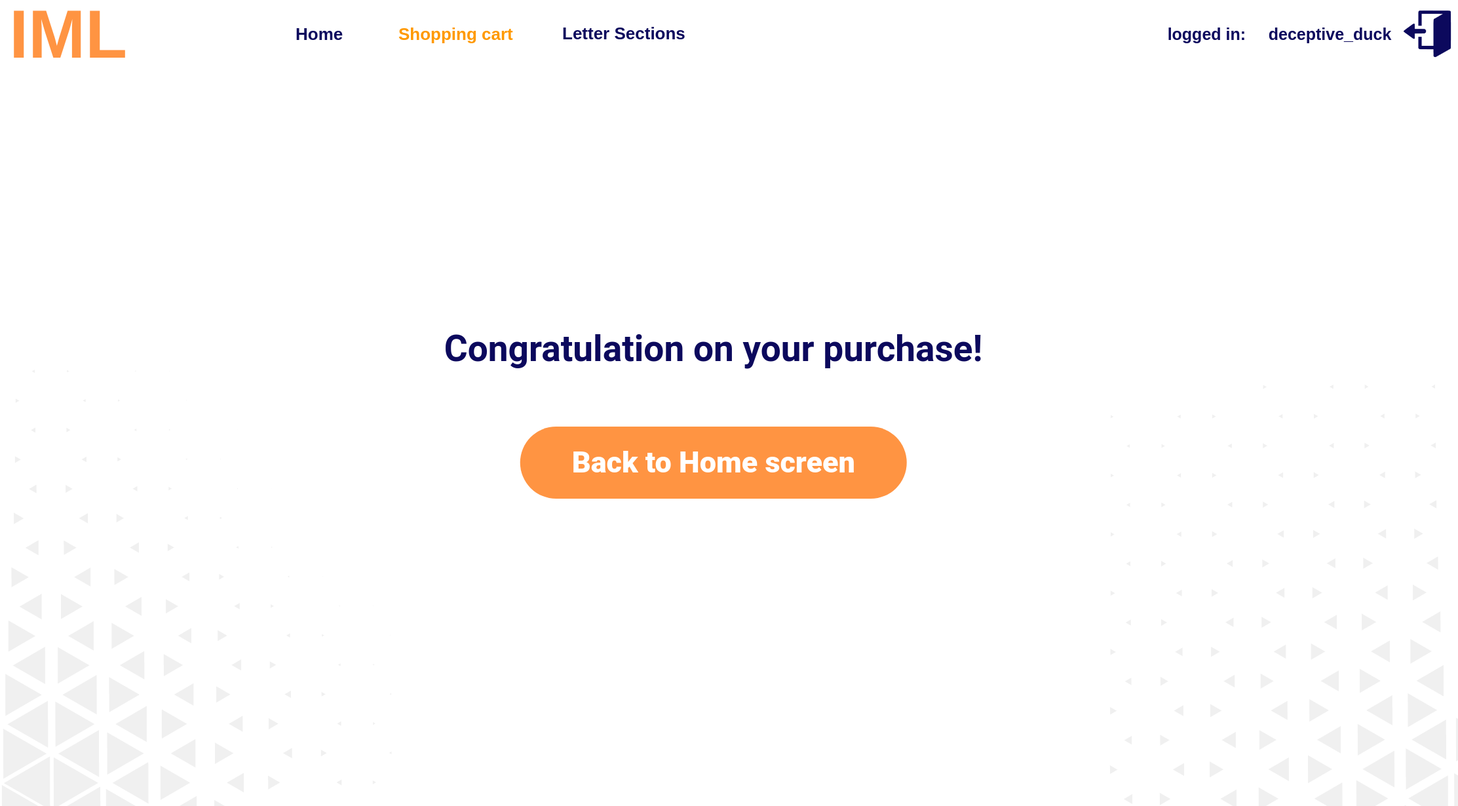
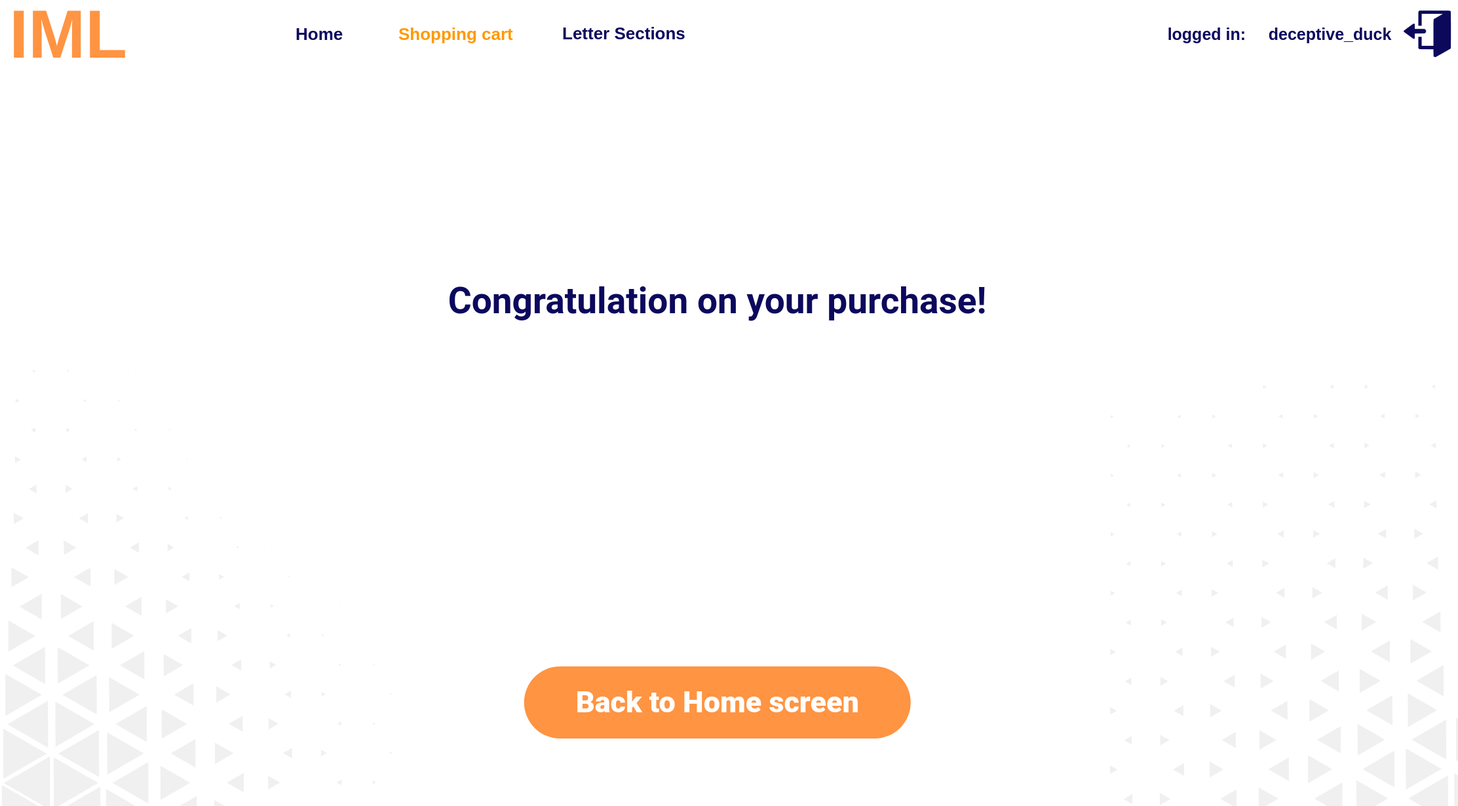
Final touches

Changed region(s): [[0.3101, 0.3398, 0.6822, 0.4634], [0.3411, 0.8033, 0.6512, 0.9268], [0.3411, 0.5252, 0.6202, 0.6179]]

diff --git a/index.html b/index.html
@@ -1,2 +1,2 @@
 <html xmlns="http://www.w3.org/1999/xhtml" xmlns:p="http://www.evolus.vn/Namespace/Pencil" xmlns:html="http://www.w3.org/1999/xhtml"><head><meta http-equiv="Content-Type" content="text/html; charset=UTF-8" />
-<title>mockup-project</title><link rel="stylesheet" href="Resources/style.css" /><script type="application/javascript" src="Resources/script.js"></script></head><body><h1 id="documentTitle">mockup-project</h1><p id="documentMetadata">Exported at: Mon Jan 22 2024 16:54:21 GMT+0200 (Eastern European Standard Time)</p><div class="Page" id="starting_page_page"><h2>Starting page</h2><div class="ImageContainer"><img src="pages/starting_page.png" width="2222" height="1230" usemap="#map_starting_page" /></div><map name="map_starting_page"><area shape="rect" coords="946.8125,771.5625,1275.5625,901.5625" href="#initialwords_page" title="Go to page 'initial_words'" /></map></div><div class="Page" id="initialwords_page"><h2>initial_words</h2><div class="ImageContainer"><img src="pages/initialwords.png" width="2222" height="1230" usemap="#map_initialwords" /></div><map name="map_initialwords"><area shape="rect" coords="930.9375,823.6875,1422.9375,869.6875" href="#initialwordscontinue_page" title="Go to page 'initial_words_continue'" /><area shape="rect" coords="838.75,812.1875,908.8125,882.25" href="#initialwordscontinue_page" title="Go to page 'initial_words_continue'" /></map></div><div class="Page" id="initialwordscontinue_page"><h2>initial_words_continue</h2><div class="ImageContainer"><img src="pages/initialwordscontinue.png" width="2222" height="1230" usemap="#map_initialwordscontinue" /></div><map name="map_initialwordscontinue"><area shape="rect" coords="846.48876953125,822.22314453125,899.608764648438,872.783142089844" href="#initialwords_page" title="Go to page 'initial_words'" /><area shape="rect" coords="930.9375,823.6875,1422.9375,869.6875" href="#initialwords_page" title="Go to page 'initial_words'" /><area shape="rect" coords="984.25,978,1236.75,1079.25" href="#createanewuser_page" title="Go to page 'create_a_new_user'" /></map></div><div class="Page" id="createanewuser_page"><h2>create_a_new_user</h2><div class="ImageContainer"><img src="pages/createanewuser.png" width="2222" height="1230" usemap="#map_createanewuser" /></div><map name="map_createanewuser"><area shape="rect" coords="770.625,822.5,1180.625,861.5" href="#createanewuserautofill_page" title="Go to page 'create_a_new_user_auto_fill'" /><area shape="rect" coords="771.625,722.5,1181.625,761.5" href="#createanewuserautofill_page" title="Go to page 'create_a_new_user_auto_fill'" /><area shape="rect" coords="771.625,630.5,1181.625,669.5" href="#createanewuserautofill_page" title="Go to page 'create_a_new_user_auto_fill'" /><area shape="rect" coords="771.625,540.5,1181.625,579.5" href="#createanewuserautofill_page" title="Go to page 'create_a_new_user_auto_fill'" /><area shape="rect" coords="771.625,448.5,1181.625,487.5" href="#createanewuserautofill_page" title="Go to page 'create_a_new_user_auto_fill'" /><area shape="rect" coords="771.625,348.5,1181.625,387.5" href="#createanewuserautofill_page" title="Go to page 'create_a_new_user_auto_fill'" /><area shape="rect" coords="771.625,256.5,1181.625,295.5" href="#createanewuserautofill_page" title="Go to page 'create_a_new_user_auto_fill'" /></map></div><div class="Page" id="createanewuserautofill_page"><h2>create_a_new_user_auto_fill</h2><div class="ImageContainer"><img src="pages/createanewuserautofill.png" width="2222" height="1230" usemap="#map_createanewuserautofill" /></div><map name="map_createanewuserautofill"><area shape="rect" coords="1201.5,247.5,1413.5,327.5" href="#createanewuserfilled_page" title="Go to page 'create_a_new_user_FILLED'" /></map></div><div class="Page" id="createanewuserfilled_page"><h2>create_a_new_user_FILLED</h2><div class="ImageContainer"><img src="pages/createanewuserfilled.png" width="2222" height="1230" usemap="#map_createanewuserfilled" /></div><map name="map_createanewuserfilled"><area shape="rect" coords="829.48876953125,929.22314453125,866.48876953125,961.22314453125" href="#initialwords_page" title="Go to page 'initial_words'" /><area shape="rect" coords="897.9375,907.6875,1389.9375,981.6875" href="#createanewuserfilleduncheck_page" title="Go to page 'create_a_new_user_FILLED_uncheck'" /><area shape="rect" coords="817.75,917.1875,877.75,972.1875" href="#createanewuserfilleduncheck_page" title="Go to page 'create_a_new_user_FILLED_uncheck'" /><area shape="rect" coords="986.25,1021,1238.75,1122.25" href="#tutorial1_page" title="Go to page 'Tutorial1'" /></map></div><div class="Page" id="createanewuserfilleduncheck_page"><h2>create_a_new_user_FILLED_uncheck</h2><div class="ImageContainer"><img src="pages/createanewuserfilleduncheck.png" width="2222" height="1230" usemap="#map_createanewuserfilleduncheck" /></div><map name="map_createanewuserfilleduncheck"><area shape="rect" coords="897.9375,907.6875,1389.9375,981.6875" href="#createanewuserfilled_page" title="Go to page 'create_a_new_user_FILLED'" /><area shape="rect" coords="817.75,917.1875,877.75,972.1875" href="#createanewuserfilled_page" title="Go to page 'create_a_new_user_FILLED'" /><area shape="rect" coords="986.25,1021,1238.75,1122.25" href="#tutorial1_page" title="Go to page 'Tutorial1'" /></map></div><div class="Page" id="tutorial1_page"><h2>Tutorial1</h2><div class="ImageContainer"><img src="pages/tutorial1.png" width="2225" height="1230" usemap="#map_tutorial1" /></div><map name="map_tutorial1"><area shape="rect" coords="864.75,629,1380.75,730" href="#tutorial2_page" title="Go to page 'Tutorial2'" /></map></div><div class="Page" id="tutorial2_page"><h2>Tutorial2</h2><div class="ImageContainer"><img src="pages/tutorial2.png" width="2225" height="1230" usemap="#map_tutorial2" /></div><map name="map_tutorial2"><area shape="rect" coords="1422.75,397,1938.75,498" href="#tutorial3_page" title="Go to page 'Tutorial3'" /></map></div><div class="Page" id="tutorial3_page"><h2>Tutorial3</h2><div class="ImageContainer"><img src="pages/tutorial3.png" width="2225" height="1230" usemap="#map_tutorial3" /></div><map name="map_tutorial3"><area shape="rect" coords="610.75,749,1126.75,850" href="#tutorial4_page" title="Go to page 'Tutorial4'" /></map></div><div class="Page" id="tutorial4_page"><h2>Tutorial4</h2><div class="ImageContainer"><img src="pages/tutorial4.png" width="2225" height="1230" usemap="#map_tutorial4" /></div><map name="map_tutorial4"><area shape="rect" coords="54.75,1034,570.75,1135" href="#tutorial5_page" title="Go to page 'Tutorial5'" /></map></div><div class="Page" id="tutorial5_page"><h2>Tutorial5</h2><div class="ImageContainer"><img src="pages/tutorial5.png" width="2225" height="1230" usemap="#map_tutorial5" /></div><map name="map_tutorial5"><area shape="rect" coords="839.75,561,1355.75,662" href="#home1_page" title="Go to page 'Home1'" /></map></div><div class="Page" id="home1_page"><h2>Home1</h2><div class="ImageContainer"><img src="pages/home1.png" width="2225" height="1230" usemap="#map_home1" /></div><map name="map_home1"><area shape="rect" coords="525,799.75,1429,870.75" href="#letter_passion_page" title="Go to page 'Letter Passion'" /><area shape="rect" coords="448.75,425.25,884.75,495.25" href="#shopping_cart_page" title="Go to page 'Shopping Cart'" /><area shape="rect" coords="2139.125,12.625,2217.25,90.7500152587891" href="#logout1_page" title="Go to page 'Logout1'" /></map></div><div class="Page" id="letter_passion_page"><h2>Letter Passion</h2><div class="ImageContainer"><img src="pages/letter_passion.png" width="2225" height="1230" usemap="#map_letter_passion" /></div><map name="map_letter_passion"><area shape="rect" coords="980.75,1090.25,1251,1160.25" href="#home21_page" title="Go to page 'Home2.1'" /><area shape="rect" coords="2139.125,12.625,2217.25,90.7500152587891" href="#logout1_page" title="Go to page 'Logout1'" /></map></div><div class="Page" id="home21_page"><h2>Home2.1</h2><div class="ImageContainer"><img src="pages/home21.png" width="2225" height="1230" usemap="#map_home21" /></div><map name="map_home21"><area shape="rect" coords="956.75,888.75,1370.75,981.25" href="#home22_page" title="Go to page 'Home2.2'" /></map></div><div class="Page" id="home22_page"><h2>Home2.2</h2><div class="ImageContainer"><img src="pages/home22.png" width="2225" height="1230" usemap="#map_home22" /></div><map name="map_home22"><area shape="rect" coords="525,890.75,1429,961.75" href="#letter_tech_page" title="Go to page 'Letter Tech'" /><area shape="rect" coords="448.75,425.25,884.75,495.25" href="#shopping_cart_page" title="Go to page 'Shopping Cart'" /><area shape="rect" coords="2139.125,12.625,2217.25,90.7500152587891" href="#logout1_page" title="Go to page 'Logout1'" /></map></div><div class="Page" id="letter_tech_page"><h2>Letter Tech</h2><div class="ImageContainer"><img src="pages/letter_tech.png" width="2225" height="1230" usemap="#map_letter_tech" /></div><map name="map_letter_tech"><area shape="rect" coords="980.75,1090.25,1251,1160.25" href="#home31_page" title="Go to page 'Home3.1'" /><area shape="rect" coords="2139.125,12.625,2217.25,90.7500152587891" href="#logout1_page" title="Go to page 'Logout1'" /></map></div><div class="Page" id="home31_page"><h2>Home3.1</h2><div class="ImageContainer"><img src="pages/home31.png" width="2225" height="1230" usemap="#map_home31" /></div><map name="map_home31"><area shape="rect" coords="905.75,822.75,1319.75,915.25" href="#home32_page" title="Go to page 'Home3.2'" /></map></div><div class="Page" id="home32_page"><h2>Home3.2</h2><div class="ImageContainer"><img src="pages/home32.png" width="2225" height="1230" usemap="#map_home32" /></div><map name="map_home32"><area shape="rect" coords="525,987.75,1429,1058.75" href="#letter_soft_page" title="Go to page 'Letter Soft'" /><area shape="rect" coords="448.75,425.25,884.75,495.25" href="#shopping_cart_page" title="Go to page 'Shopping Cart'" /><area shape="rect" coords="2139.125,12.625,2217.25,90.7500152587891" href="#logout1_page" title="Go to page 'Logout1'" /></map></div><div class="Page" id="letter_soft_page"><h2>Letter Soft</h2><div class="ImageContainer"><img src="pages/letter_soft.png" width="2225" height="1230" usemap="#map_letter_soft" /></div><map name="map_letter_soft"><area shape="rect" coords="2139.125,12.625,2217.25,90.7500152587891" href="#logout1_page" title="Go to page 'Logout1'" /></map></div><div class="Page" id="home41_page"><h2>Home4.1</h2><div class="ImageContainer"><img src="pages/home41.png" width="2225" height="1230" usemap="#map_home41" /></div><map name="map_home41"><area shape="rect" coords="908.75,799.75,1322.75,892.25" href="#home32_page" title="Go to page 'Home3.2'" /></map></div><div class="Page" id="home42_page"><h2>Home4.2</h2><div class="ImageContainer"><img src="pages/home42.png" width="2225" height="1230" usemap="#map_home42" /></div><map name="map_home42"><area shape="rect" coords="525,1081.75,1429,1152.75" href="#letter_end_page" title="Go to page 'Letter End'" /><area shape="rect" coords="448.75,425.25,884.75,495.25" href="#shopping_cart_page" title="Go to page 'Shopping Cart'" /><area shape="rect" coords="2139.125,12.625,2217.25,90.7500152587891" href="#logout1_page" title="Go to page 'Logout1'" /></map></div><div class="Page" id="letter_end_page"><h2>Letter End</h2><div class="ImageContainer"><img src="pages/letter_end.png" width="2225" height="1230" usemap="#map_letter_end" /></div><map name="map_letter_end"><area shape="rect" coords="980.75,1090.25,1251,1160.25" href="#home51_page" title="Go to page 'Home5.1'" /><area shape="rect" coords="2139.125,12.625,2217.25,90.7500152587891" href="#logout1_page" title="Go to page 'Logout1'" /></map></div><div class="Page" id="home51_page"><h2>Home5.1</h2><div class="ImageContainer"><img src="pages/home51.png" width="2225" height="1230" usemap="#map_home51" /></div><map name="map_home51"><area shape="rect" coords="899.75,960.75,1313.75,1053.25" href="#home52_page" title="Go to page 'Home5.2'" /><area shape="rect" coords="448.75,425.25,884.75,495.25" href="#shopping_cart_page" title="Go to page 'Shopping Cart'" /></map></div><div class="Page" id="home52_page"><h2>Home5.2</h2><div class="ImageContainer"><img src="pages/home52.png" width="2225" height="1230" usemap="#map_home52" /></div><map name="map_home52"><area shape="rect" coords="2139.125,12.625,2217.25,90.7500152587891" href="#logout1_page" title="Go to page 'Logout1'" /></map></div><div class="Page" id="shopping_cart_page"><h2>Shopping Cart</h2><div class="ImageContainer"><img src="pages/shopping_cart.png" width="2225" height="1230" usemap="#map_shopping_cart" /></div><map name="map_shopping_cart"><area shape="rect" coords="1179.75,377.25,1495.75,447.25" href="#cart_delete_page" title="Go to page 'Cart delete'" /><area shape="rect" coords="1582.75,476,1883.75,537" href="#normal_checkout_page" title="Go to page 'Normal Checkout'" /><area shape="rect" coords="2139.125,12.625,2217.25,90.7500152587891" href="#logout1_page" title="Go to page 'Logout1'" /></map></div><div class="Page" id="normal_checkout_page"><h2>Normal Checkout</h2><div class="ImageContainer"><img src="pages/normal_checkout.png" width="2225" height="1230" usemap="#map_normal_checkout" /></div><map name="map_normal_checkout"><area shape="rect" coords="900.5,780.75,1315.25,863" href="#purchased_page" title="Go to page 'Purchased'" /><area shape="rect" coords="671.5,1130.3125,735,1164.3125" href="#shopping_cart_page" title="Go to page 'Shopping Cart'" /></map></div><div class="Page" id="cart_delete_page"><h2>Cart delete</h2><div class="ImageContainer"><img src="pages/cart_delete.png" width="2225" height="1230" usemap="#map_cart_delete" /></div><map name="map_cart_delete"><area shape="rect" coords="671.5,1143.3125,809.231994628906,1177.3125" href="#deleted_item_page" title="Go to page 'Deleted Item'" /><area shape="rect" coords="947.75,825.25,1263.75,895.25" href="#shopping_cart_page" title="Go to page 'Shopping Cart'" /></map></div><div class="Page" id="deleted_item_page"><h2>Deleted Item</h2><div class="ImageContainer"><img src="pages/deleted_item.png" width="2225" height="1230" usemap="#map_deleted_item" /></div><map name="map_deleted_item"><area shape="rect" coords="1501.75,1073.25,1742.75,1143.25" href="#shopping_cart_page" title="Go to page 'Shopping Cart'" /><area shape="rect" coords="1582.75,476,1883.75,537" href="#deleted_checkout_page" title="Go to page 'Deleted Checkout'" /><area shape="rect" coords="2139.125,12.625,2217.25,90.7500152587891" href="#logout1_page" title="Go to page 'Logout1'" /></map></div><div class="Page" id="deleted_checkout_page"><h2>Deleted Checkout</h2><div class="ImageContainer"><img src="pages/deleted_checkout.png" width="2225" height="1230" usemap="#map_deleted_checkout" /></div><map name="map_deleted_checkout"><area shape="rect" coords="893.5,623.75,1308.25,706" href="#purchased_page" title="Go to page 'Purchased'" /><area shape="rect" coords="676.5,1143.3125,740,1177.3125" href="#deleted_item_page" title="Go to page 'Deleted Item'" /><area shape="rect" coords="1501.75,1073.25,1742.75,1143.25" href="#shopping_cart_page" title="Go to page 'Shopping Cart'" /></map></div><div class="Page" id="purchased_page"><h2>Purchased</h2><div class="ImageContainer"><img src="pages/purchased.png" width="2225" height="1230" usemap="#map_purchased" /></div><map name="map_purchased"><area shape="rect" coords="790.75,648,1386.75,764" href="#home1_page" title="Go to page 'Home1'" /><area shape="rect" coords="2139.125,12.625,2217.25,90.7500152587891" href="#logout1_page" title="Go to page 'Logout1'" /></map></div><div class="Page" id="logout1_page"><h2>Logout1</h2><div class="ImageContainer"><img src="pages/logout1.png" width="2225" height="1230" usemap="#map_logout1" /></div><map name="map_logout1"><area shape="rect" coords="884.5,380.3125,951,414.3125" href="#logout2_page" title="Go to page 'Logout2'" /><area shape="rect" coords="1100.75,355.5,1466,439.25" href="#home1_page" title="Go to page 'Home1'" /></map></div><div class="Page" id="logout2_page"><h2>Logout2</h2><div class="ImageContainer"><img src="pages/logout2.png" width="2225" height="1230" usemap="#map_logout2" /></div><map name="map_logout2"><area shape="rect" coords="924.5,431.3125,991,465.3125" href="#logout3_page" title="Go to page 'Logout3'" /><area shape="rect" coords="1028.75,343.75,1516.5,451.25" href="#home1_page" title="Go to page 'Home1'" /></map></div><div class="Page" id="logout3_page"><h2>Logout3</h2><div class="ImageContainer"><img src="pages/logout3.png" width="2225" height="1230" usemap="#map_logout3" /></div><map name="map_logout3"><area shape="rect" coords="935.75,309.25,1714.75,484.25" href="#home1_page" title="Go to page 'Home1'" /><area shape="rect" coords="905.5,320.3125,972,354.3125" href="#starting_page_page" title="Go to page 'Starting page'" /></map></div></body></html>
+<title>mockup-project</title><link rel="stylesheet" href="Resources/style.css" /><script type="application/javascript" src="Resources/script.js"></script></head><body><h1 id="documentTitle">mockup-project</h1><p id="documentMetadata">Exported at: Mon Jan 22 2024 19:30:17 GMT+0200 (Eastern European Standard Time)</p><div class="Page" id="starting_page_page"><h2>Starting page</h2><div class="ImageContainer"><img src="pages/starting_page.png" width="2222" height="1230" usemap="#map_starting_page" /></div><map name="map_starting_page"><area shape="rect" coords="946.8125,771.5625,1275.5625,901.5625" href="#initialwords_page" title="Go to page 'initial_words'" /></map></div><div class="Page" id="initialwords_page"><h2>initial_words</h2><div class="ImageContainer"><img src="pages/initialwords.png" width="2222" height="1230" usemap="#map_initialwords" /></div><map name="map_initialwords"><area shape="rect" coords="930.9375,823.6875,1422.9375,869.6875" href="#initialwordscontinue_page" title="Go to page 'initial_words_continue'" /><area shape="rect" coords="838.75,812.1875,908.8125,882.25" href="#initialwordscontinue_page" title="Go to page 'initial_words_continue'" /></map></div><div class="Page" id="initialwordscontinue_page"><h2>initial_words_continue</h2><div class="ImageContainer"><img src="pages/initialwordscontinue.png" width="2222" height="1230" usemap="#map_initialwordscontinue" /></div><map name="map_initialwordscontinue"><area shape="rect" coords="846.48876953125,822.22314453125,899.608764648438,872.783142089844" href="#initialwords_page" title="Go to page 'initial_words'" /><area shape="rect" coords="930.9375,823.6875,1422.9375,869.6875" href="#initialwords_page" title="Go to page 'initial_words'" /><area shape="rect" coords="984.25,978,1236.75,1079.25" href="#createanewuser_page" title="Go to page 'create_a_new_user'" /></map></div><div class="Page" id="createanewuser_page"><h2>create_a_new_user</h2><div class="ImageContainer"><img src="pages/createanewuser.png" width="2222" height="1230" usemap="#map_createanewuser" /></div><map name="map_createanewuser"><area shape="rect" coords="770.625,822.5,1180.625,861.5" href="#createanewuserautofill_page" title="Go to page 'create_a_new_user_auto_fill'" /><area shape="rect" coords="771.625,722.5,1181.625,761.5" href="#createanewuserautofill_page" title="Go to page 'create_a_new_user_auto_fill'" /><area shape="rect" coords="771.625,630.5,1181.625,669.5" href="#createanewuserautofill_page" title="Go to page 'create_a_new_user_auto_fill'" /><area shape="rect" coords="771.625,540.5,1181.625,579.5" href="#createanewuserautofill_page" title="Go to page 'create_a_new_user_auto_fill'" /><area shape="rect" coords="771.625,448.5,1181.625,487.5" href="#createanewuserautofill_page" title="Go to page 'create_a_new_user_auto_fill'" /><area shape="rect" coords="771.625,348.5,1181.625,387.5" href="#createanewuserautofill_page" title="Go to page 'create_a_new_user_auto_fill'" /><area shape="rect" coords="771.625,256.5,1181.625,295.5" href="#createanewuserautofill_page" title="Go to page 'create_a_new_user_auto_fill'" /></map></div><div class="Page" id="createanewuserautofill_page"><h2>create_a_new_user_auto_fill</h2><div class="ImageContainer"><img src="pages/createanewuserautofill.png" width="2222" height="1230" usemap="#map_createanewuserautofill" /></div><map name="map_createanewuserautofill"><area shape="rect" coords="1201.5,247.5,1413.5,327.5" href="#createanewuserfilled_page" title="Go to page 'create_a_new_user_FILLED'" /></map></div><div class="Page" id="createanewuserfilled_page"><h2>create_a_new_user_FILLED</h2><div class="ImageContainer"><img src="pages/createanewuserfilled.png" width="2222" height="1230" usemap="#map_createanewuserfilled" /></div><map name="map_createanewuserfilled"><area shape="rect" coords="829.48876953125,929.22314453125,866.48876953125,961.22314453125" href="#initialwords_page" title="Go to page 'initial_words'" /><area shape="rect" coords="897.9375,907.6875,1389.9375,981.6875" href="#createanewuserfilleduncheck_page" title="Go to page 'create_a_new_user_FILLED_uncheck'" /><area shape="rect" coords="817.75,917.1875,877.75,972.1875" href="#createanewuserfilleduncheck_page" title="Go to page 'create_a_new_user_FILLED_uncheck'" /><area shape="rect" coords="986.25,1021,1238.75,1122.25" href="#log_in_page" title="Go to page 'log in'" /></map></div><div class="Page" id="createanewuserfilleduncheck_page"><h2>create_a_new_user_FILLED_uncheck</h2><div class="ImageContainer"><img src="pages/createanewuserfilleduncheck.png" width="2222" height="1230" usemap="#map_createanewuserfilleduncheck" /></div><map name="map_createanewuserfilleduncheck"><area shape="rect" coords="897.9375,907.6875,1389.9375,981.6875" href="#createanewuserfilled_page" title="Go to page 'create_a_new_user_FILLED'" /><area shape="rect" coords="817.75,917.1875,877.75,972.1875" href="#createanewuserfilled_page" title="Go to page 'create_a_new_user_FILLED'" /><area shape="rect" coords="986.25,1021,1238.75,1122.25" href="#log_in_page" title="Go to page 'log in'" /></map></div><div class="Page" id="log_in_page"><h2>log in</h2><div class="ImageContainer"><img src="pages/log_in.png" width="2222" height="1230" usemap="#map_log_in" /></div><map name="map_log_in"><area shape="rect" coords="984.25,708,1236.75,809.25" href="#tutorial1_page" title="Go to page 'Tutorial1'" /></map></div><div class="Page" id="tutorial1_page"><h2>Tutorial1</h2><div class="ImageContainer"><img src="pages/tutorial1.png" width="2225" height="1230" usemap="#map_tutorial1" /></div><map name="map_tutorial1"><area shape="rect" coords="864.75,629,1380.75,730" href="#tutorial2_page" title="Go to page 'Tutorial2'" /></map></div><div class="Page" id="tutorial2_page"><h2>Tutorial2</h2><div class="ImageContainer"><img src="pages/tutorial2.png" width="2225" height="1230" usemap="#map_tutorial2" /></div><map name="map_tutorial2"><area shape="rect" coords="1593.75,253,2109.75,354" href="#tutorial3_page" title="Go to page 'Tutorial3'" /></map></div><div class="Page" id="tutorial3_page"><h2>Tutorial3</h2><div class="ImageContainer"><img src="pages/tutorial3.png" width="2225" height="1230" usemap="#map_tutorial3" /></div><map name="map_tutorial3"><area shape="rect" coords="626.75,637,1142.75,738" href="#tutorial4_page" title="Go to page 'Tutorial4'" /></map></div><div class="Page" id="tutorial4_page"><h2>Tutorial4</h2><div class="ImageContainer"><img src="pages/tutorial4.png" width="2225" height="1230" usemap="#map_tutorial4" /></div><map name="map_tutorial4"><area shape="rect" coords="1317.75,916,1833.75,1017" href="#tutorial5_page" title="Go to page 'Tutorial5'" /></map></div><div class="Page" id="tutorial5_page"><h2>Tutorial5</h2><div class="ImageContainer"><img src="pages/tutorial5.png" width="2225" height="1230" usemap="#map_tutorial5" /></div><map name="map_tutorial5"><area shape="rect" coords="1432.75,690,1948.75,791" href="#tutorial6_page" title="Go to page 'Tutorial6'" /></map></div><div class="Page" id="tutorial6_page"><h2>Tutorial6</h2><div class="ImageContainer"><img src="pages/tutorial6.png" width="2225" height="1230" usemap="#map_tutorial6" /></div><map name="map_tutorial6"><area shape="rect" coords="832.75,709,1348.75,810" href="#home1_page" title="Go to page 'Home1'" /></map></div><div class="Page" id="home1_page"><h2>Home1</h2><div class="ImageContainer"><img src="pages/home1.png" width="2225" height="1230" usemap="#map_home1" /></div><map name="map_home1"><area shape="rect" coords="525,799.75,1429,870.75" href="#letter_passion_page" title="Go to page 'Letter Passion'" /></map></div><div class="Page" id="letter_passion_page"><h2>Letter Passion</h2><div class="ImageContainer"><img src="pages/letter_passion.png" width="2225" height="1230" usemap="#map_letter_passion" /></div><map name="map_letter_passion"><area shape="rect" coords="980.75,1090.25,1251,1160.25" href="#home21_page" title="Go to page 'Home2.1'" /></map></div><div class="Page" id="home21_page"><h2>Home2.1</h2><div class="ImageContainer"><img src="pages/home21.png" width="2225" height="1230" usemap="#map_home21" /></div><map name="map_home21"><area shape="rect" coords="956.75,888.75,1370.75,981.25" href="#home22_page" title="Go to page 'Home2.2'" /></map></div><div class="Page" id="home22_page"><h2>Home2.2</h2><div class="ImageContainer"><img src="pages/home22.png" width="2225" height="1230" usemap="#map_home22" /></div><map name="map_home22"><area shape="rect" coords="525,890.75,1429,961.75" href="#letter_tech_page" title="Go to page 'Letter Tech'" /></map></div><div class="Page" id="letter_tech_page"><h2>Letter Tech</h2><div class="ImageContainer"><img src="pages/letter_tech.png" width="2225" height="1230" usemap="#map_letter_tech" /></div><map name="map_letter_tech"><area shape="rect" coords="980.75,1090.25,1251,1160.25" href="#home31_page" title="Go to page 'Home3.1'" /></map></div><div class="Page" id="home31_page"><h2>Home3.1</h2><div class="ImageContainer"><img src="pages/home31.png" width="2225" height="1230" usemap="#map_home31" /></div><map name="map_home31"><area shape="rect" coords="930.75,812.75,1344.75,905.25" href="#home32_page" title="Go to page 'Home3.2'" /></map></div><div class="Page" id="home32_page"><h2>Home3.2</h2><div class="ImageContainer"><img src="pages/home32.png" width="2225" height="1230" usemap="#map_home32" /></div><map name="map_home32"><area shape="rect" coords="525,987.75,1429,1058.75" href="#letter_soft_page" title="Go to page 'Letter Soft'" /></map></div><div class="Page" id="letter_soft_page"><h2>Letter Soft</h2><div class="ImageContainer"><img src="pages/letter_soft.png" width="2225" height="1230" usemap="#map_letter_soft" /></div><map name="map_letter_soft"><area shape="rect" coords="980.75,1090.25,1251,1160.25" href="#home41_page" title="Go to page 'Home4.1'" /></map></div><div class="Page" id="home41_page"><h2>Home4.1</h2><div class="ImageContainer"><img src="pages/home41.png" width="2225" height="1230" usemap="#map_home41" /></div><map name="map_home41"><area shape="rect" coords="908.75,799.75,1322.75,892.25" href="#home42_page" title="Go to page 'Home4.2'" /></map></div><div class="Page" id="home42_page"><h2>Home4.2</h2><div class="ImageContainer"><img src="pages/home42.png" width="2225" height="1230" usemap="#map_home42" /></div><map name="map_home42"><area shape="rect" coords="525,1081.75,1429,1152.75" href="#letter_end_page" title="Go to page 'Letter End'" /></map></div><div class="Page" id="letter_end_page"><h2>Letter End</h2><div class="ImageContainer"><img src="pages/letter_end.png" width="2225" height="1230" usemap="#map_letter_end" /></div><map name="map_letter_end"><area shape="rect" coords="980.75,1090.25,1251,1160.25" href="#home51_page" title="Go to page 'Home5.1'" /></map></div><div class="Page" id="home51_page"><h2>Home5.1</h2><div class="ImageContainer"><img src="pages/home51.png" width="2225" height="1230" usemap="#map_home51" /></div><map name="map_home51"><area shape="rect" coords="899.75,960.75,1313.75,1053.25" href="#home52_page" title="Go to page 'Home5.2'" /></map></div><div class="Page" id="home52_page"><h2>Home5.2</h2><div class="ImageContainer"><img src="pages/home52.png" width="2225" height="1230" usemap="#map_home52" /></div><map name="map_home52"><area shape="rect" coords="899.75,960.75,1313.75,1053.25" href="#home53_page" title="Go to page 'Home5.3'" /></map></div><div class="Page" id="home53_page"><h2>Home5.3</h2><div class="ImageContainer"><img src="pages/home53.png" width="2225" height="1230" usemap="#map_home53" /></div><map name="map_home53"><area shape="rect" coords="525,1081.75,1429,1152.75" href="#letter_end_done_page" title="Go to page 'Letter End DONE'" /><area shape="rect" coords="525,987.75,1429,1058.75" href="#letter_soft_done_page" title="Go to page 'Letter Soft DONE'" /><area shape="rect" coords="525,890.75,1429,961.75" href="#letter_tech_done_page" title="Go to page 'Letter Tech DONE'" /><area shape="rect" coords="525,799.75,1429,870.75" href="#letter_passion_done_page" title="Go to page 'Letter Passion DONE'" /><area shape="rect" coords="448.75,425.25,884.75,495.25" href="#shopping_cart_page" title="Go to page 'Shopping Cart'" /></map></div><div class="Page" id="letter_passion_done_page"><h2>Letter Passion DONE</h2><div class="ImageContainer"><img src="pages/letter_passion_done.png" width="2225" height="1230" usemap="#map_letter_passion_done" /></div><map name="map_letter_passion_done"><area shape="rect" coords="980.75,1090.25,1251,1160.25" href="#home53_page" title="Go to page 'Home5.3'" /></map></div><div class="Page" id="letter_tech_done_page"><h2>Letter Tech DONE</h2><div class="ImageContainer"><img src="pages/letter_tech_done.png" width="2225" height="1230" usemap="#map_letter_tech_done" /></div><map name="map_letter_tech_done"><area shape="rect" coords="980.75,1090.25,1251,1160.25" href="#home53_page" title="Go to page 'Home5.3'" /></map></div><div class="Page" id="letter_soft_done_page"><h2>Letter Soft DONE</h2><div class="ImageContainer"><img src="pages/letter_soft_done.png" width="2225" height="1230" usemap="#map_letter_soft_done" /></div><map name="map_letter_soft_done"><area shape="rect" coords="980.75,1090.25,1251,1160.25" href="#home53_page" title="Go to page 'Home5.3'" /></map></div><div class="Page" id="letter_end_done_page"><h2>Letter End DONE</h2><div class="ImageContainer"><img src="pages/letter_end_done.png" width="2225" height="1230" usemap="#map_letter_end_done" /></div><map name="map_letter_end_done"><area shape="rect" coords="980.75,1090.25,1251,1160.25" href="#home53_page" title="Go to page 'Home5.3'" /></map></div><div class="Page" id="home54_page"><h2>Home5.4</h2><div class="ImageContainer"><img src="pages/home54.png" width="2225" height="1230" usemap="#map_home54" /></div><map name="map_home54"><area shape="rect" coords="892.75,752.75,1306.75,845.25" href="#home55_page" title="Go to page 'Home5.5'" /><area shape="rect" coords="2139.125,12.625,2217.25,90.7500152587891" href="#logout1_page" title="Go to page 'Logout1'" /></map></div><div class="Page" id="home55_page"><h2>Home5.5</h2><div class="ImageContainer"><img src="pages/home55.png" width="2225" height="1230" usemap="#map_home55" /></div><map name="map_home55"><area shape="rect" coords="525,1081.75,1429,1152.75" href="#letter_end_done_page" title="Go to page 'Letter End DONE'" /><area shape="rect" coords="525,987.75,1429,1058.75" href="#letter_soft_done_page" title="Go to page 'Letter Soft DONE'" /><area shape="rect" coords="525,890.75,1429,961.75" href="#letter_tech_done_page" title="Go to page 'Letter Tech DONE'" /><area shape="rect" coords="525,799.75,1429,870.75" href="#letter_passion_done_page" title="Go to page 'Letter Passion DONE'" /><area shape="rect" coords="448.75,425.25,884.75,495.25" href="#shopping_cart_page" title="Go to page 'Shopping Cart'" /><area shape="rect" coords="2139.125,12.625,2217.25,90.7500152587891" href="#logout1_page" title="Go to page 'Logout1'" /></map></div><div class="Page" id="shopping_cart_page"><h2>Shopping Cart</h2><div class="ImageContainer"><img src="pages/shopping_cart.png" width="2225" height="1230" usemap="#map_shopping_cart" /></div><map name="map_shopping_cart"><area shape="rect" coords="1179.75,377.25,1495.75,447.25" href="#cart_delete_page" title="Go to page 'Cart delete'" /><area shape="rect" coords="1582.75,476,1883.75,537" href="#normal_checkout_page" title="Go to page 'Normal Checkout'" /><area shape="rect" coords="2139.125,12.625,2217.25,90.7500152587891" href="#logout1_page" title="Go to page 'Logout1'" /></map></div><div class="Page" id="normal_checkout_page"><h2>Normal Checkout</h2><div class="ImageContainer"><img src="pages/normal_checkout.png" width="2225" height="1230" usemap="#map_normal_checkout" /></div><map name="map_normal_checkout"><area shape="rect" coords="900.5,780.75,1315.25,863" href="#purchased_page" title="Go to page 'Purchased'" /><area shape="rect" coords="671.5,1130.3125,735,1164.3125" href="#shopping_cart_page" title="Go to page 'Shopping Cart'" /></map></div><div class="Page" id="cart_delete_page"><h2>Cart delete</h2><div class="ImageContainer"><img src="pages/cart_delete.png" width="2225" height="1230" usemap="#map_cart_delete" /></div><map name="map_cart_delete"><area shape="rect" coords="671.5,1143.3125,809.231994628906,1177.3125" href="#deleted_item_page" title="Go to page 'Deleted Item'" /><area shape="rect" coords="947.75,825.25,1263.75,895.25" href="#shopping_cart_page" title="Go to page 'Shopping Cart'" /></map></div><div class="Page" id="deleted_item_page"><h2>Deleted Item</h2><div class="ImageContainer"><img src="pages/deleted_item.png" width="2225" height="1230" usemap="#map_deleted_item" /></div><map name="map_deleted_item"><area shape="rect" coords="1501.75,1073.25,1742.75,1143.25" href="#shopping_cart_page" title="Go to page 'Shopping Cart'" /><area shape="rect" coords="1582.75,476,1883.75,537" href="#deleted_checkout_page" title="Go to page 'Deleted Checkout'" /><area shape="rect" coords="2139.125,12.625,2217.25,90.7500152587891" href="#logout1_page" title="Go to page 'Logout1'" /></map></div><div class="Page" id="deleted_checkout_page"><h2>Deleted Checkout</h2><div class="ImageContainer"><img src="pages/deleted_checkout.png" width="2225" height="1230" usemap="#map_deleted_checkout" /></div><map name="map_deleted_checkout"><area shape="rect" coords="893.5,623.75,1308.25,706" href="#purchased_page" title="Go to page 'Purchased'" /><area shape="rect" coords="676.5,1143.3125,740,1177.3125" href="#deleted_item_page" title="Go to page 'Deleted Item'" /><area shape="rect" coords="1501.75,1073.25,1742.75,1143.25" href="#shopping_cart_page" title="Go to page 'Shopping Cart'" /></map></div><div class="Page" id="purchased_page"><h2>Purchased</h2><div class="ImageContainer"><img src="pages/purchased.png" width="2225" height="1230" usemap="#map_purchased" /></div><map name="map_purchased"><area shape="rect" coords="796.75,1014,1392.75,1130" href="#home54_page" title="Go to page 'Home5.4'" /></map></div><div class="Page" id="logout1_page"><h2>Logout1</h2><div class="ImageContainer"><img src="pages/logout1.png" width="2225" height="1230" usemap="#map_logout1" /></div><map name="map_logout1"><area shape="rect" coords="884.5,380.3125,951,414.3125" href="#logout2_page" title="Go to page 'Logout2'" /><area shape="rect" coords="1100.75,355.5,1466,439.25" href="#home55_page" title="Go to page 'Home5.5'" /></map></div><div class="Page" id="logout2_page"><h2>Logout2</h2><div class="ImageContainer"><img src="pages/logout2.png" width="2225" height="1230" usemap="#map_logout2" /></div><map name="map_logout2"><area shape="rect" coords="924.5,431.3125,991,465.3125" href="#logout3_page" title="Go to page 'Logout3'" /><area shape="rect" coords="1028.75,343.75,1516.5,451.25" href="#home55_page" title="Go to page 'Home5.5'" /></map></div><div class="Page" id="logout3_page"><h2>Logout3</h2><div class="ImageContainer"><img src="pages/logout3.png" width="2225" height="1230" usemap="#map_logout3" /></div><map name="map_logout3"><area shape="rect" coords="935.75,309.25,1714.75,484.25" href="#home55_page" title="Go to page 'Home5.5'" /><area shape="rect" coords="905.5,320.3125,972,354.3125" href="#starting_page_page" title="Go to page 'Starting page'" /></map></div></body></html>
